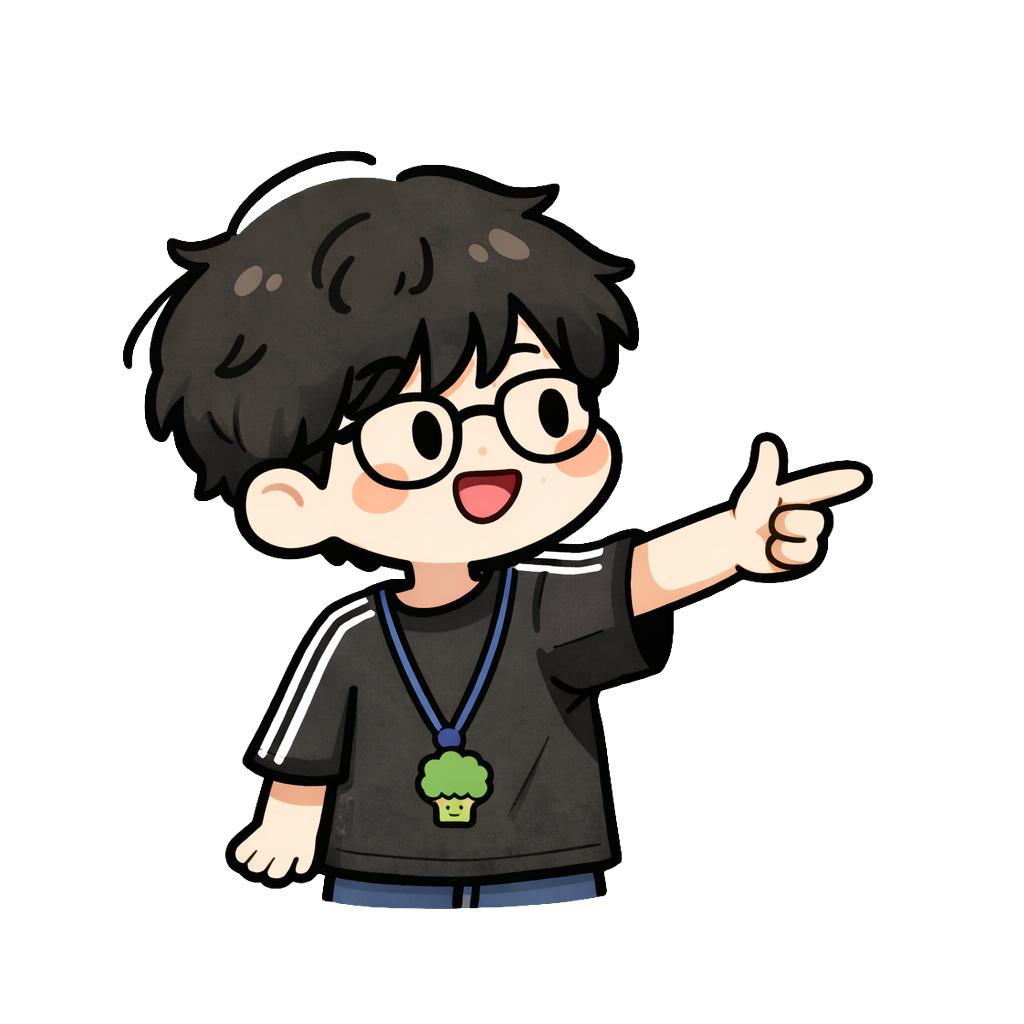
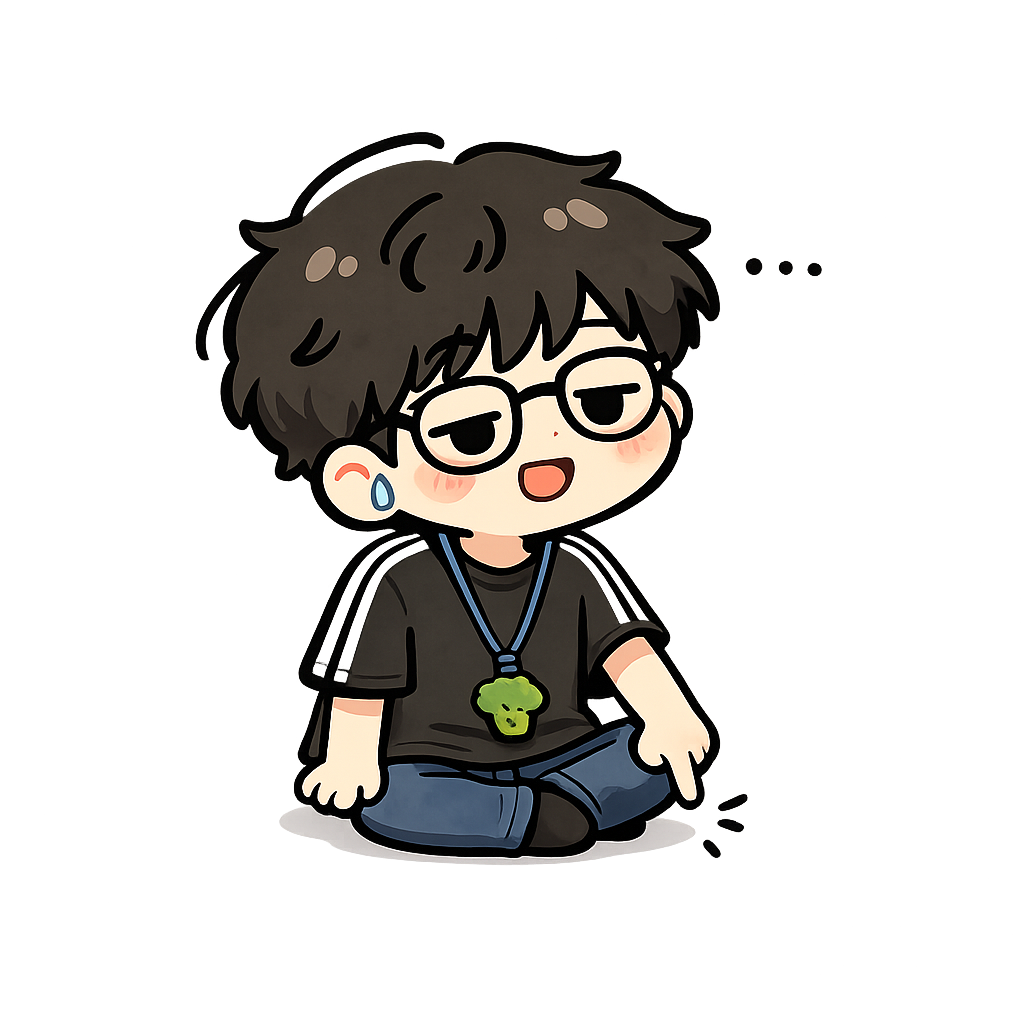
up

Changed region(s): [[0.125, 0.125, 0.875, 0.9062]]

diff --git a/stage1/step2.html b/stage1/step2.html
@@ -57,9 +57,7 @@
       transition: left .08s linear, top .08s linear, transform .12s ease, box-shadow .12s ease, opacity .12s ease;
       will-change: left, top;
     }
-    @keyframes popIn{
-      to { opacity:1; transform: translateY(0) scale(1); }
-    }
+    @keyframes popIn{ to { opacity:1; transform: translateY(0) scale(1); } }
     .sticky.dragging{
       cursor:grabbing;
       transform: scale(1.01);
@@ -195,7 +193,7 @@
   <script src="https://cdn.jsdelivr.net/npm/@supabase/supabase-js@2"></script>
   <script>
   (() => {
-    // ===== crash overlay (kept from yours) =====
+    // ===== crash overlay =====
     const ERROR_BOX = document.createElement("div");
     ERROR_BOX.style.cssText = "position:fixed;inset:0;padding:16px;background:#0b0d12;color:#e9ecff;font-family:ui-monospace,Menlo,Consolas,monospace;z-index:99999;display:none;overflow:auto";
     document.body.appendChild(ERROR_BOX);
@@ -214,7 +212,7 @@
     const supabase = window.supabase.createClient(SUPABASE_URL, SUPABASE_ANON_KEY);
 
     const BASE_PATH = "/stage1";
-    const CHIBI3_SRC = "/assets/chibi3.png"; // <- change if needed
+    const CHIBI3_SRC = "/pic/chibi3.png"; // <- change if needed
 
     const params = new URLSearchParams(location.search);
     const room = (params.get("room") || "").trim();
@@ -284,13 +282,10 @@
     }
 
     const state = { stickies: [] };
-
-    // Local map of pending save states (id -> boolean)
     const saving = new Map();
 
     function setSaving(id, isSaving){
       saving.set(id, !!isSaving);
-      // update pill if exists
       const el = stickyArea.querySelector(`[data-id="${CSS.escape(String(id))}"]`);
       if(!el) return;
       const pill = el.querySelector("[data-pill]");
@@ -320,11 +315,11 @@
       return options[Math.floor(Math.random()*options.length)];
     }
 
+    // ✅ FIXED: do not start dragging when clicking textarea OR any button inside sticky
     function makePointerDraggable(el, {onMove, onStart, onEnd}){
       let last=null;
 
       el.addEventListener("pointerdown",(e)=>{
-        // ✅ ignore interactions with textarea / buttons / any clickable controls
         const t = e.target;
         if (t && (t.closest("textarea") || t.closest("button"))) return;
 
@@ -352,17 +347,7 @@
         onEnd?.();
       });
     }
-    const delBtn = el.querySelector(".tinyBtn");
-      delBtn.addEventListener("pointerdown", (e) => {
-        e.stopPropagation();
-        e.preventDefault();
-      });
-      delBtn.addEventListener("click", async (e) => {
-        e.stopPropagation();
-        // ... your delete logic here
-      });
 
-    // ===== DB update helpers =====
     const pushStickyUpdate = throttle(async (id, patch) => {
       setSaving(id, true);
       const { error } = await supabase.from("workshop_stickies").update(patch).eq("id", id);
@@ -400,21 +385,37 @@
           <textarea placeholder="Write your goal...">${escapeHtml(s.text)}</textarea>
         `;
 
-        // Delete: optimistic remove first, then DB delete
-        el.querySelector(".tinyBtn").addEventListener("click", async (e)=>{
+        const delBtn = el.querySelector(".tinyBtn");
+
+        // ✅ FIXED: stop pointerdown so drag never captures this interaction
+        delBtn.addEventListener("pointerdown", (e)=>{
+          e.stopPropagation();
+          e.preventDefault();
+        });
+
+        delBtn.addEventListener("click", async (e)=>{
           e.stopPropagation();
 
-          // optimistic UI remove
           const id = s.id;
+
+          // optimistic remove
           state.stickies = state.stickies.filter(x => x.id !== id);
+          saving.delete(id);
           render();
 
-          // actual delete
-          const { error } = await supabase.from("workshop_stickies").delete().eq("id", id);
+          // DB delete + log (keeps debugging easy)
+          const { data, error } = await supabase
+            .from("workshop_stickies")
+            .delete()
+            .eq("id", id)
+            .select();
+
+          console.log("DELETE result", { data, error });
+
           if (error){
             console.error(error);
             showToast("Delete failed (see console)");
-            // rollback: re-add locally if delete failed
+            // rollback
             state.stickies.push(s);
             render();
           }
@@ -478,16 +479,12 @@
       }
     }
 
-    // Helper to safely extract id from DELETE payload
     function getDeletedId(payload){
-      // With REPLICA IDENTITY FULL, payload.old includes full row.
-      // Without it, payload.old might only contain the primary key columns.
       if (!payload) return null;
       if (payload.old && payload.old.id) return payload.old.id;
       if (payload.old && payload.old.ID) return payload.old.ID;
       if (payload.old && payload.old.sticky_id) return payload.old.sticky_id;
       if (payload.old && payload.old.stickyId) return payload.old.stickyId;
-      // Sometimes supabase gives old as just an object with the PK but naming mismatch
       return null;
     }
 
@@ -507,11 +504,9 @@
               const s = payload.new;
               const idx = state.stickies.findIndex(x=>x.id===s.id);
               if(idx>=0){
-                // keep local saving state, but update fields
                 state.stickies[idx] = { id:s.id, x:s.x, y:s.y, color:s.color, text:s.text || "", participant_id:s.participant_id };
                 render();
               } else {
-                // if it didn't exist locally, add it
                 state.stickies.push({ id:s.id, x:s.x, y:s.y, color:s.color, text:s.text || "", participant_id:s.participant_id });
                 render();
               }
@@ -523,7 +518,7 @@
                 saving.delete(did);
                 render();
               } else {
-                // If delete payload has no id, fallback: reload (rare, but fixes “won’t remove”)
+                // fallback: reload
                 loadInitial();
               }
             }
@@ -537,60 +532,40 @@
       const x = Math.round(Math.max(10, Math.min(rect.width - 190, 12 + Math.random()*40)));
       const y = Math.round(Math.max(10, Math.min(rect.height - 120, 12 + Math.random()*40)));
 
-      // optimistic placeholder ID (temp)
+      // optimistic temp
       const tempId = "temp_" + crypto.randomUUID();
-      const optimistic = {
-        id: tempId,
-        session_id: room,
-        x, y,
-        color: randomStickyColor(),
-        text: "",
-        participant_id: participantId
-      };
+      const color = randomStickyColor();
 
-      state.stickies.push({ id:optimistic.id, x:optimistic.x, y:optimistic.y, color:optimistic.color, text:"", participant_id:participantId });
+      state.stickies.push({ id:tempId, x, y, color, text:"", participant_id:participantId });
       setSaving(tempId, true);
       render();
 
-      // actual insert
-      const payload = {
-        session_id: room,
-        x, y,
-        color: optimistic.color,
-        text: "",
-        participant_id: participantId
-      };
+      const payload = { session_id: room, x, y, color, text: "", participant_id: participantId };
 
       let res = await supabase.from("workshop_stickies").insert(payload).select().single();
-
-      if (res.error) {
-        // fallback if participant_id column doesn't exist
-        if (String(res.error.message || "").toLowerCase().includes("participant_id")) {
-          delete payload.participant_id;
-          res = await supabase.from("workshop_stickies").insert(payload).select().single();
-        }
+      if (res.error && String(res.error.message || "").toLowerCase().includes("participant_id")) {
+        delete payload.participant_id;
+        res = await supabase.from("workshop_stickies").insert(payload).select().single();
       }
 
       if (res.error) {
         console.error(res.error);
         showToast("Insert failed: " + (res.error.message || "unknown"));
-        // remove optimistic
         state.stickies = state.stickies.filter(s => s.id !== tempId);
         saving.delete(tempId);
         render();
         return;
       }
 
-      // replace temp with real row
       const row = res.data;
       const idx = state.stickies.findIndex(s => s.id === tempId);
+      saving.delete(tempId);
+
       if (idx >= 0){
         state.stickies[idx] = { id:row.id, x:row.x, y:row.y, color:row.color, text:row.text || "", participant_id:row.participant_id };
-        saving.delete(tempId);
         setSaving(row.id, false);
         render();
       } else {
-        // temp disappeared (rare), just add
         state.stickies.push({ id:row.id, x:row.x, y:row.y, color:row.color, text:row.text || "", participant_id:row.participant_id });
         setSaving(row.id, false);
         render();
@@ -604,11 +579,10 @@
       const ok = confirm("Clear local workshop storage and reload?");
       if(!ok) return;
       localStorage.removeItem(PID_KEY);
-      localStorage.removeItem(AUTH_KEY);
+      localStorage.removeItem(`stage1_authed_${room}`);
       location.reload();
     });
 
-    // Boot
     loadInitial().then(subscribeRealtime);
   })();
   </script>
